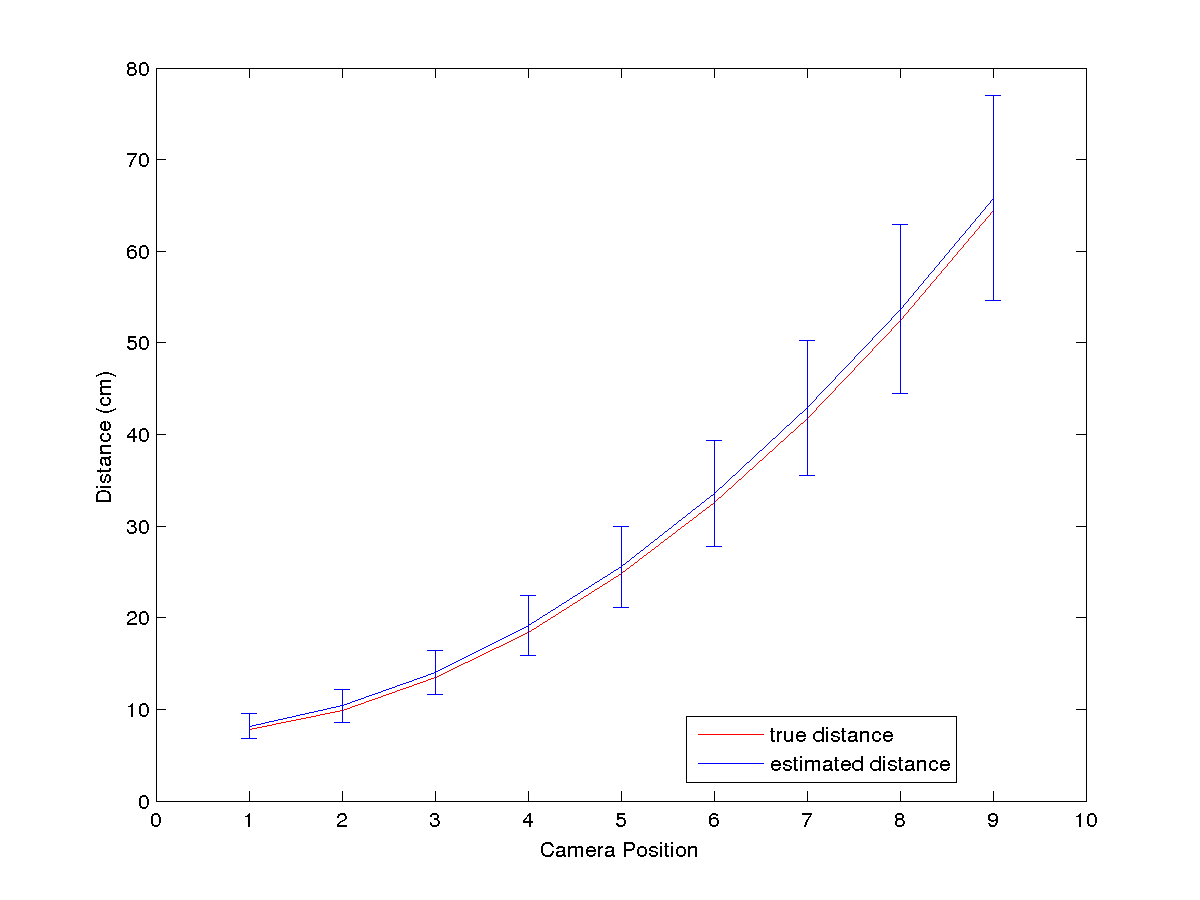
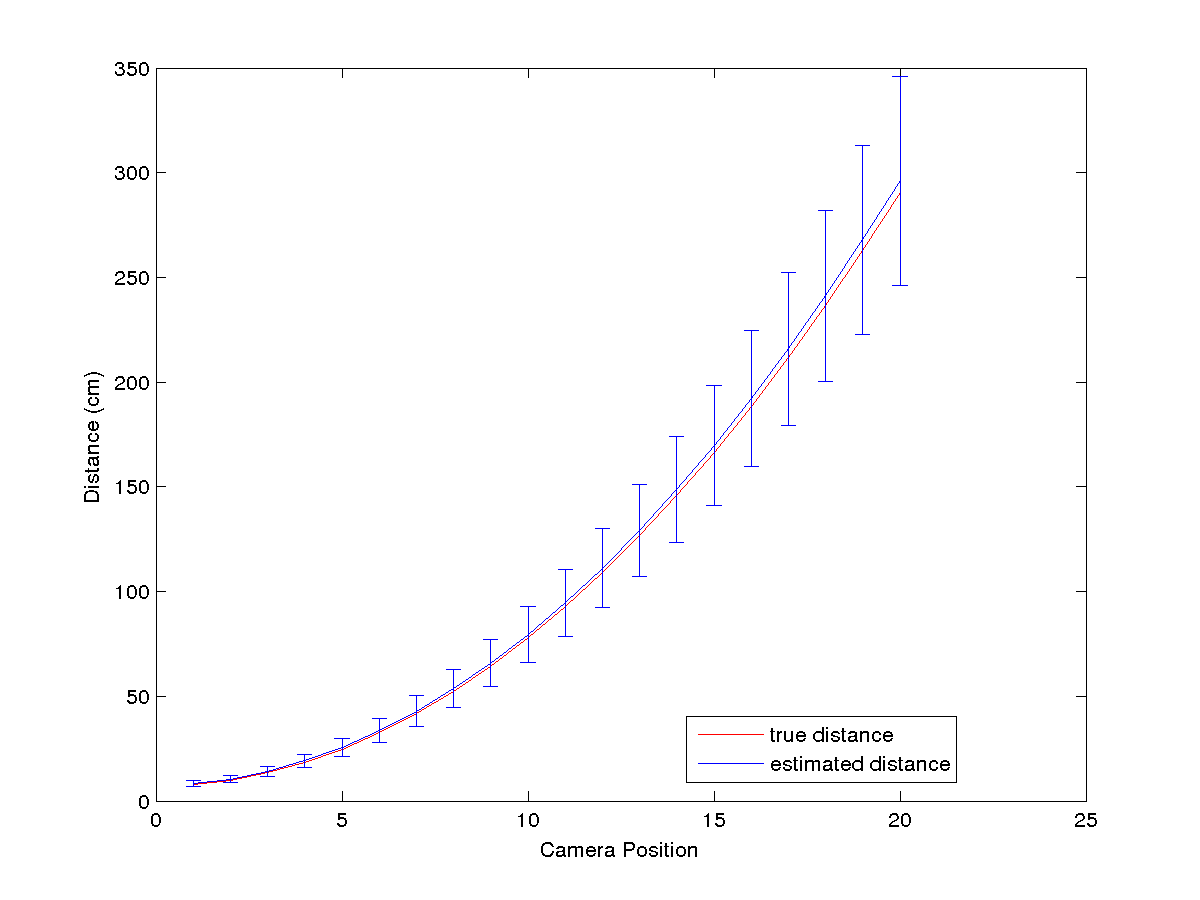
puttig each sentence in a new line to make repository merging easier

diff --git a/src/main/latex/facePoseISVC2013.tex b/src/main/latex/facePoseISVC2013.tex
@@ -33,7 +33,16 @@
 \end{abstract}
 
 \section{Introduction}
-When taking a picture of a human head, the choice of distance from camera to head and focal length (zoom) can have a dramatic effect on the end result.  In Figure \ref{fig:fiducial_migration}, we illustrate the effect of perspective distortion on the face.  The first eight images (in row major order) show a synthetic face (generated using FaceGen \footnote{\url{http://www.facegen.com}}) while varying the distance from camera to head and the focal length.  In the top left image the camera is at a far distance, resulting in a near orthographic projection effect.  The eighth image (bottom row, middle column) the camera is very close to the human head, resulting in an elongated face shape and portruding nose.  Fiducials (corners of eyes/nose/mouth, and nose tip) are marked with red dots.  The bottom right image is the same image as the top left, with fiducial markers from all images.  This illustrates how fiducial features migrate as a function of camera distance and focal length.  In this paper, we show that using imaged 2D fiducial locations are sufficient to recover the distance from camera to head.  Specifically, we show that the distance between camera and any human head can be recovered using a set of exemplar 3D human heads.
+When taking a picture of a human head, the choice of distance from camera to head and focal length (zoom) can have a dramatic effect on the end result.  
+In Figure \ref{fig:fiducial_migration}, we illustrate the effect of perspective distortion on the face. 
+The first eight images (in row major order) show a synthetic face (generated using FaceGen \footnote{\url{http://www.facegen.com}}) while varying the distance from camera to head and the focal length.  
+In the top left image the camera is at a far distance, resulting in a near orthographic projection effect.  
+The eighth image (bottom row, middle column) the camera is very close to the human head, resulting in an elongated face shape and portruding nose.  
+Fiducials (corners of eyes/nose/mouth, and nose tip) are marked with red dots.  
+The bottom right image is the same image as the top left, with fiducial markers from all images.
+This illustrates how fiducial features migrate as a function of camera distance and focal length. 
+In this paper, we show that using imaged 2D fiducial locations are sufficient to recover the distance from camera to head. 
+Specifically, we show that the distance between camera and any human head can be recovered using a set of exemplar 3D human heads.
 
 \begin{figure}[ht]
 \centering
@@ -48,35 +57,67 @@ When taking a picture of a human head, the choice of distance from camera to hea
 \includegraphics[width=.25\linewidth]{resources/figures/extracted_fiducial_0007.png} &
 \includegraphics[width=.25\linewidth]{resources/figures/fiducial_migration.png}
 \end{tabular}
-\caption{A synthetic face at different camera distances and focal length (zoom) to keep the silhouette at a constant size.  Fiducials are shown as red dots.  Bottom left image shows the top left image with fiducials from all camera distances illustrating the migration of fiducials as a function of camera distance/zoom.} 
+\caption{A synthetic face at different camera distances and focal length (zoom) to keep the silhouette at a constant size.  
+Fiducials are shown as red dots.  
+Bottom left image shows the top left image with fiducials from all camera distances illustrating the migration of fiducials as a function of camera distance/zoom.} 
 \label{fig:fiducial_migration}
 \end{figure}
 
 \section{Related works}
-The specific problem we investigate in this paper is essentially head pose estimation.  Head pose estimation from 2D images is an active field of research, a recent survey can be found in \cite{murphy2009head}.  However, most head pose estimation algorithms focus primarily on the orientation of the head with respect to the camera.  This amounts to estimating the yaw, pitch, and roll egocentric rotation angles of the head.  To our knowledge, existing head pose estimation algorithms do not focus on distance between camera and head (translation in the $z$-axis in figure \ref{fig:head_pose}).
+The specific problem we investigate in this paper is essentially head pose estimation.  
+Head pose estimation from 2D images is an active field of research, a recent survey can be found in \cite{murphy2009head}. 
+However, most head pose estimation algorithms focus primarily on the orientation of the head with respect to the camera. 
+This amounts to estimating the yaw, pitch, and roll egocentric rotation angles of the head. 
+To our knowledge, existing head pose estimation algorithms do not focus on distance between camera and head (translation in the $z$-axis in figure \ref{fig:head_pose}).
 
 \begin{figure}[ht]
 \centering
 \includegraphics[width=.7\linewidth]{resources/figures/head_pose.png}
-\caption{The goal of head pose estimation is to recover the yaw, pitch, and roll angles of the head, as well as translation along $x$, $y$, and $z$ axes in relation to the camera.  Most head pose estimation algorithms do not test for translation along the $z$-axis.}
+\caption{The goal of head pose estimation is to recover the yaw, pitch, and roll angles of the head, as well as translation along $x$, $y$, and $z$ axes in relation to the camera. 
+Most head pose estimation algorithms do not test for translation along the $z$-axis.}
 \label{fig:head_pose}
 \end{figure}
 
-In \cite{liu2003face,liu2006face}, Liu studies the effect of face recognition by humans when viewing faces at different perspective convergence angles (effectively focal length or field of view).  The study involved showing a human test subject images of faces in a training phase, then in a later recognition phase the human subject was shown another image of a face and asked to determine if he had observed this face in the training phase.  The field of view angle was for images in training and recognition phases was changed to see if this had an effect on recognition.  Not surprisingly, their results show that even humans have a hard time recognizing a face when its viewed under different levels of perspective distortion.  This is a motivating factor since if human have trouble with this task, a computer vision algorithm will likely also have the same troubles.  Predicting the distance between camera and face is a first step at mitigating the effects of perspective distortion.
+In \cite{liu2003face,liu2006face}, Liu studies the effect of face recognition by humans when viewing faces at different perspective convergence angles (effectively focal length or field of view). 
+The study involved showing a human test subject images of faces in a training phase, then in a later recognition phase the human subject was shown another image of a face and asked to determine if he had observed this face in the training phase. 
+The field of view angle was for images in training and recognition phases was changed to see if this had an effect on recognition. 
+Not surprisingly, their results show that even humans have a hard time recognizing a face when its viewed under different levels of perspective distortion.  
+This is a motivating factor since if human have trouble with this task, a computer vision algorithm will likely also have the same troubles.  
+Predicting the distance between camera and face is a first step at mitigating the effects of perspective distortion.
 
-A similar psychology based studied is presented in \cite{perona2007new,bryan2012perspective}.  Here, Perona et al. investigate the effects of perspective distortion as visual cue for social judgement of faces.  Human subjects were asked to judge an image of a face in terms of trustworthiness, attractiveness, and competence.  Their results show that for social judgements, pictures taken from a distance outside of "personal space" (up close) are generally rated lower, while pictures taken at a far distance have higher ratings.
+A similar psychology based studied is presented in \cite{perona2007new,bryan2012perspective}. 
+Here, Perona et al. investigate the effects of perspective distortion as visual cue for social judgement of faces.  
+Human subjects were asked to judge an image of a face in terms of trustworthiness, attractiveness, and competence.  
+Their results show that for social judgements, pictures taken from a distance outside of "personal space" (up close) are generally rated lower, while pictures taken at a far distance have higher ratings.
 
-In \cite{ohayon2006robust}, Ohayon and Rivlin present head tracking as a camera pose estimation problem.  Prior to head tracking, 3D points are acquired from the head.  During tracking, correspondences between the 3D points and their imaged 2D points are used to estimate head pose by solving the inverse problem, namely camera pose.  They use the Perspective $n$-Point (PnP) formulation to solve for the camera extrinsic parameters (rotation $R$ and translation $T$).  The PnP method is also known as the Locationi Determination Problem and was first coined in \cite{ransac}.  In effect, the human head is used as a calibration rig.  In this paper, the authors show that head pose can be accurately estimated and tracked under varying yaw/pitch/roll angles and translations about $x$ and $y$ axes.  However, translations about the $z$-axis are not exensively studied.  
+In \cite{ohayon2006robust}, Ohayon and Rivlin present head tracking as a camera pose estimation problem.  
+Prior to head tracking, 3D points are acquired from the head.  
+During tracking, correspondences between the 3D points and their imaged 2D points are used to estimate head pose by solving the inverse problem, namely camera pose. 
+They use the Perspective $n$-Point (PnP) formulation to solve for the camera extrinsic parameters (rotation $R$ and translation $T$).  
+The PnP method is also known as the Locationi Determination Problem and was first coined in \cite{ransac}.  
+In effect, the human head is used as a calibration rig.  
+In this paper, the authors show that head pose can be accurately estimated and tracked under varying yaw/pitch/roll angles and translations about $x$ and $y$ axes. 
+However, translations about the $z$-axis are not exensively studied.  
 
 \section{Camera pose estimation from face images using EPnP}
 
-Our work is based on \cite{ohayon2006robust}, but we focus primarily on translation along the $z$-axis, which affects the level of induced perspective distortion.  Furthermore, Ohayon and Rivlin present a method for estimating head pose of a specific human head.  We present a method for estimating head pose of human heads in general using a dataset of exemplar human heads. 
+Our work is based on \cite{ohayon2006robust}, but we focus primarily on translation along the $z$-axis, which affects the level of induced perspective distortion.  
+Furthermore, Ohayon and Rivlin present a method for estimating head pose of a specific human head.  
+We present a method for estimating head pose of human heads in general using a dataset of exemplar human heads. 
 
 \subsection{Efficient Perspective $n$-Point (EP$n$P)}
-EPnP is a non-iterative solution to the P$n$P problem.  As stated earlier, the P$n$P problem estimates the pose of a calibrated camera from $n$ 3D-to-2D correspondences.  The advantage of EP$n$P is that the computational complexity grows linearly with $n$, whereas other state-of-the-art methods are $O(n^5)$ or even $O(n^8)$.  We use Matlab code provided by the authors \footnote{\url{http://cvlab.epfl.ch/software/EPnP}}.
+EPnP is a non-iterative solution to the P$n$P problem.  
+As stated earlier, the P$n$P problem estimates the pose of a calibrated camera from $n$ 3D-to-2D correspondences.  
+The advantage of EP$n$P is that the computational complexity grows linearly with $n$, whereas other state-of-the-art methods are $O(n^5)$ or even $O(n^8)$.  
+We use Matlab code provided by the authors \footnote{\url{http://cvlab.epfl.ch/software/EPnP}}.
 
 \subsection{Exemplar 3D heads}
-The geometric configuration of fiducial features does vary from face to face, but in general fiducial locations tend to form clusters, as illustrated in Figure \ref{fig:fiducial_clusters}.  Figure \ref{fig:fiducial_clusters}(a-c) shows point clouds of three different faces taken from the GavaBDB \cite{moreno2004gavabdb} dataset.  Manually clicked fiducial locations are shown in large red dots.  Figure \ref{fig:fiducial_clusters}(c) shows fiducials for 20 different faces, note the fiducials form clusters.  We take advantage of this and use a set of exemplar 3D heads to estimate the camera pose (in particular distance between camera and head) of face images in general. We show that using exemplar heads allows us to accurately estimate the camera pose and distance from camera to the head.
+The geometric configuration of fiducial features does vary from face to face, but in general fiducial locations tend to form clusters, as illustrated in Figure \ref{fig:fiducial_clusters}.  
+Figure \ref{fig:fiducial_clusters}(a-c) shows point clouds of three different faces taken from the GavaBDB \cite{moreno2004gavabdb} dataset. 
+Manually clicked fiducial locations are shown in large red dots. 
+Figure \ref{fig:fiducial_clusters}(c) shows fiducials for 20 different faces, note the fiducials form clusters.  
+We take advantage of this and use a set of exemplar 3D heads to estimate the camera pose (in particular distance between camera and head) of face images in general. 
+We show that using exemplar heads allows us to accurately estimate the camera pose and distance from camera to the head.
 
 \begin{figure}[h]
 \centering
@@ -93,7 +134,11 @@ The geometric configuration of fiducial features does vary from face to face, bu
 \end{figure}
 
 \section{Experimental setup}
-In all experiments, we use the Texas 3D Face Recognition Database (Texas 3DFRD) \cite{gupta2010texas}, see figure \ref{fig:t3dfrd}.  This database is a collection of 1149 pairs of frontal facial color and range images of 105 adult human subjects.  Each face also has 25 manually labeled anthropometric facial fiducial points.  Color and range images were captured simultaneously and are thus perfectly registered to each other.  This allows us to have ground truth 3D locations of the fiducial locations.  
+In all experiments, we use the Texas 3D Face Recognition Database (Texas 3DFRD) \cite{gupta2010texas}, see figure \ref{fig:t3dfrd}.  
+This database is a collection of 1149 pairs of frontal facial color and range images of 105 adult human subjects.  
+Each face also has 25 manually labeled anthropometric facial fiducial points.  
+Color and range images were captured simultaneously and are thus perfectly registered to each other.  
+This allows us to have ground truth 3D locations of the fiducial locations.  
 \begin{figure}[h]
 \centering
 \includegraphics[width=.7\linewidth]{resources/figures/t3dfr.jpg}
@@ -107,10 +152,17 @@ In this work, we are primarily interested in recovering the distance between cam
 \item Use 3D fiducial locations for other individuals as exemplars.
 \item For each exemplar, estimate the camera pose (and distance) using EPnP.
 \item Final estimate is the average from all exemplars.
-\item Repeat while simulating a dolly-zoom camera movement (move camera back, increase focal length).  The focal length is adjusted so as to keep the outermost fiducials close to the eyes at a near constant distance.
+\item Repeat while simulating a dolly-zoom camera movement (move camera back, increase focal length).  
 \end{itemize}
 
-We perform this experiment for the frontal and $3/4$ profile view of the face.  For the frontal case, we assume all fiducials are visible by the camera.  For the $3/4$ we assume only a subset of the fiducials are visible. In this work, we assume we have a calibrated camera and all intrinsic camera parameters are known.  Simulated camera distances range from approximately 10cm to 100cm
+We perform this experiment for the frontal and $3/4$ profile view of the face.  
+For the frontal case, we assume all fiducials are visible by the camera.  
+For the $3/4$ we assume only a subset of the fiducials are visible. 
+In this work, we assume we have a calibrated camera and all intrinsic camera parameters are known.  
+Simulated camera distances range from approximately 10cm to 300cm.
+
+Note the distance of camera to the face could be trivially estimated by the size of the imaged face if we did not adjust the focal length. 
+The focal length is adjusted so as to keep the outermost fiducials close to the eyes at a near constant distance, which keeps the imaged face silhouette at approximately the same size.
 
 \section{Results}
 Figure \ref{fig:results} shows results of camera pose estimation and distance from camera to head.  
